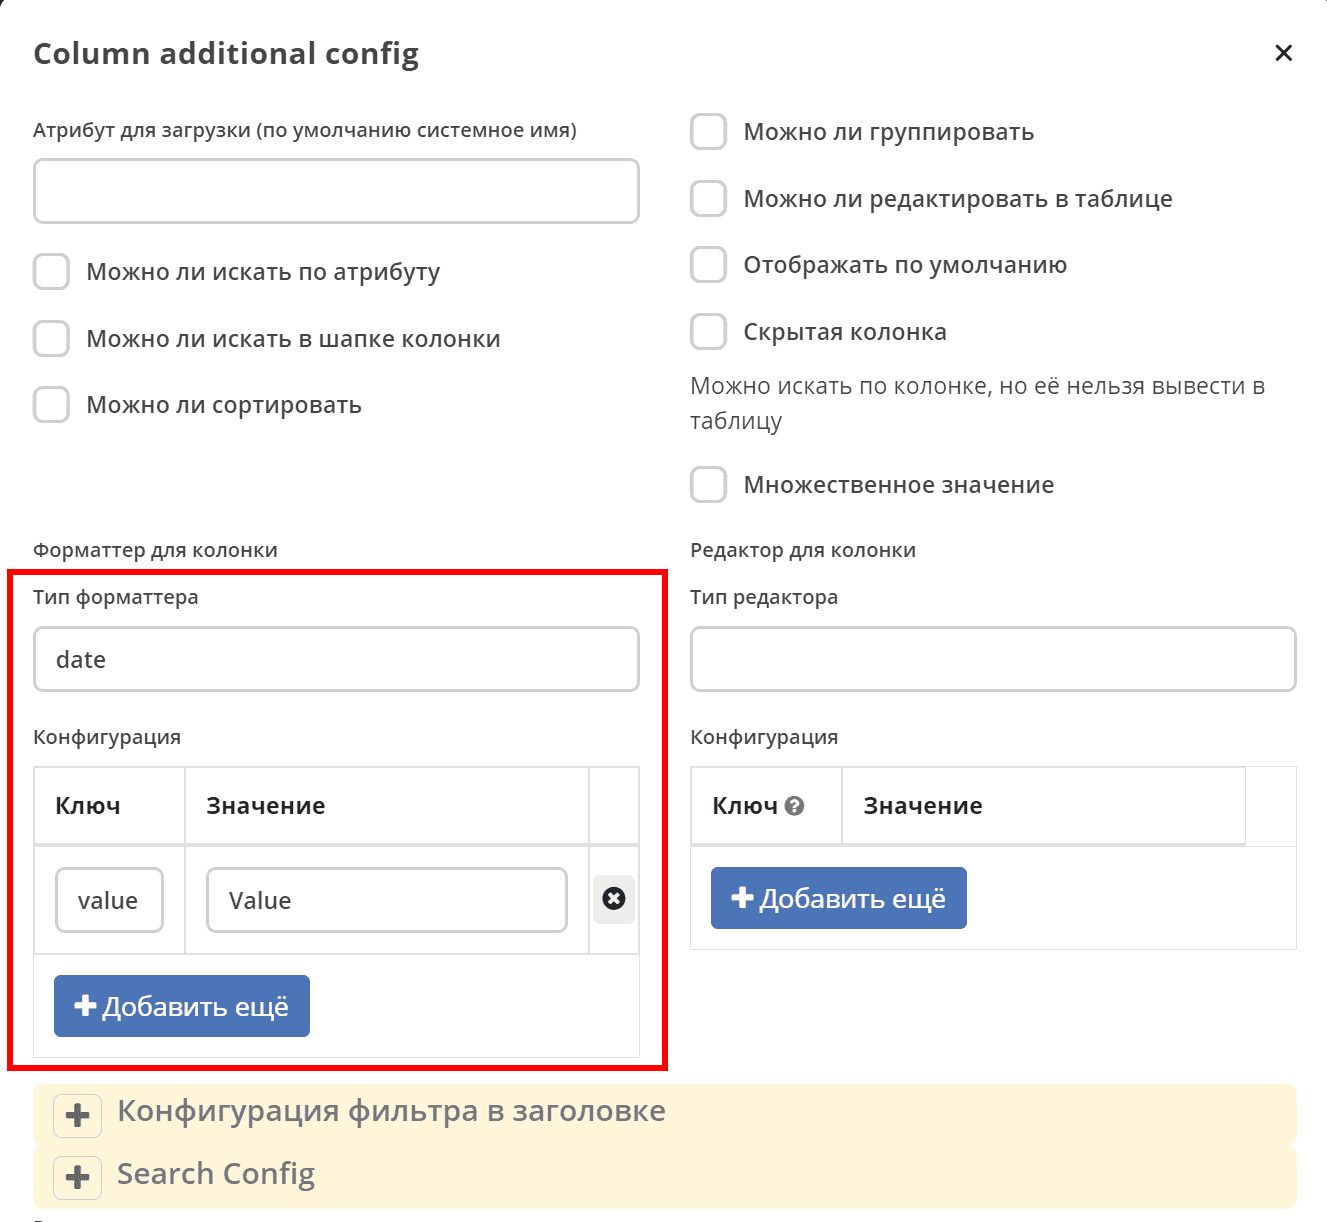
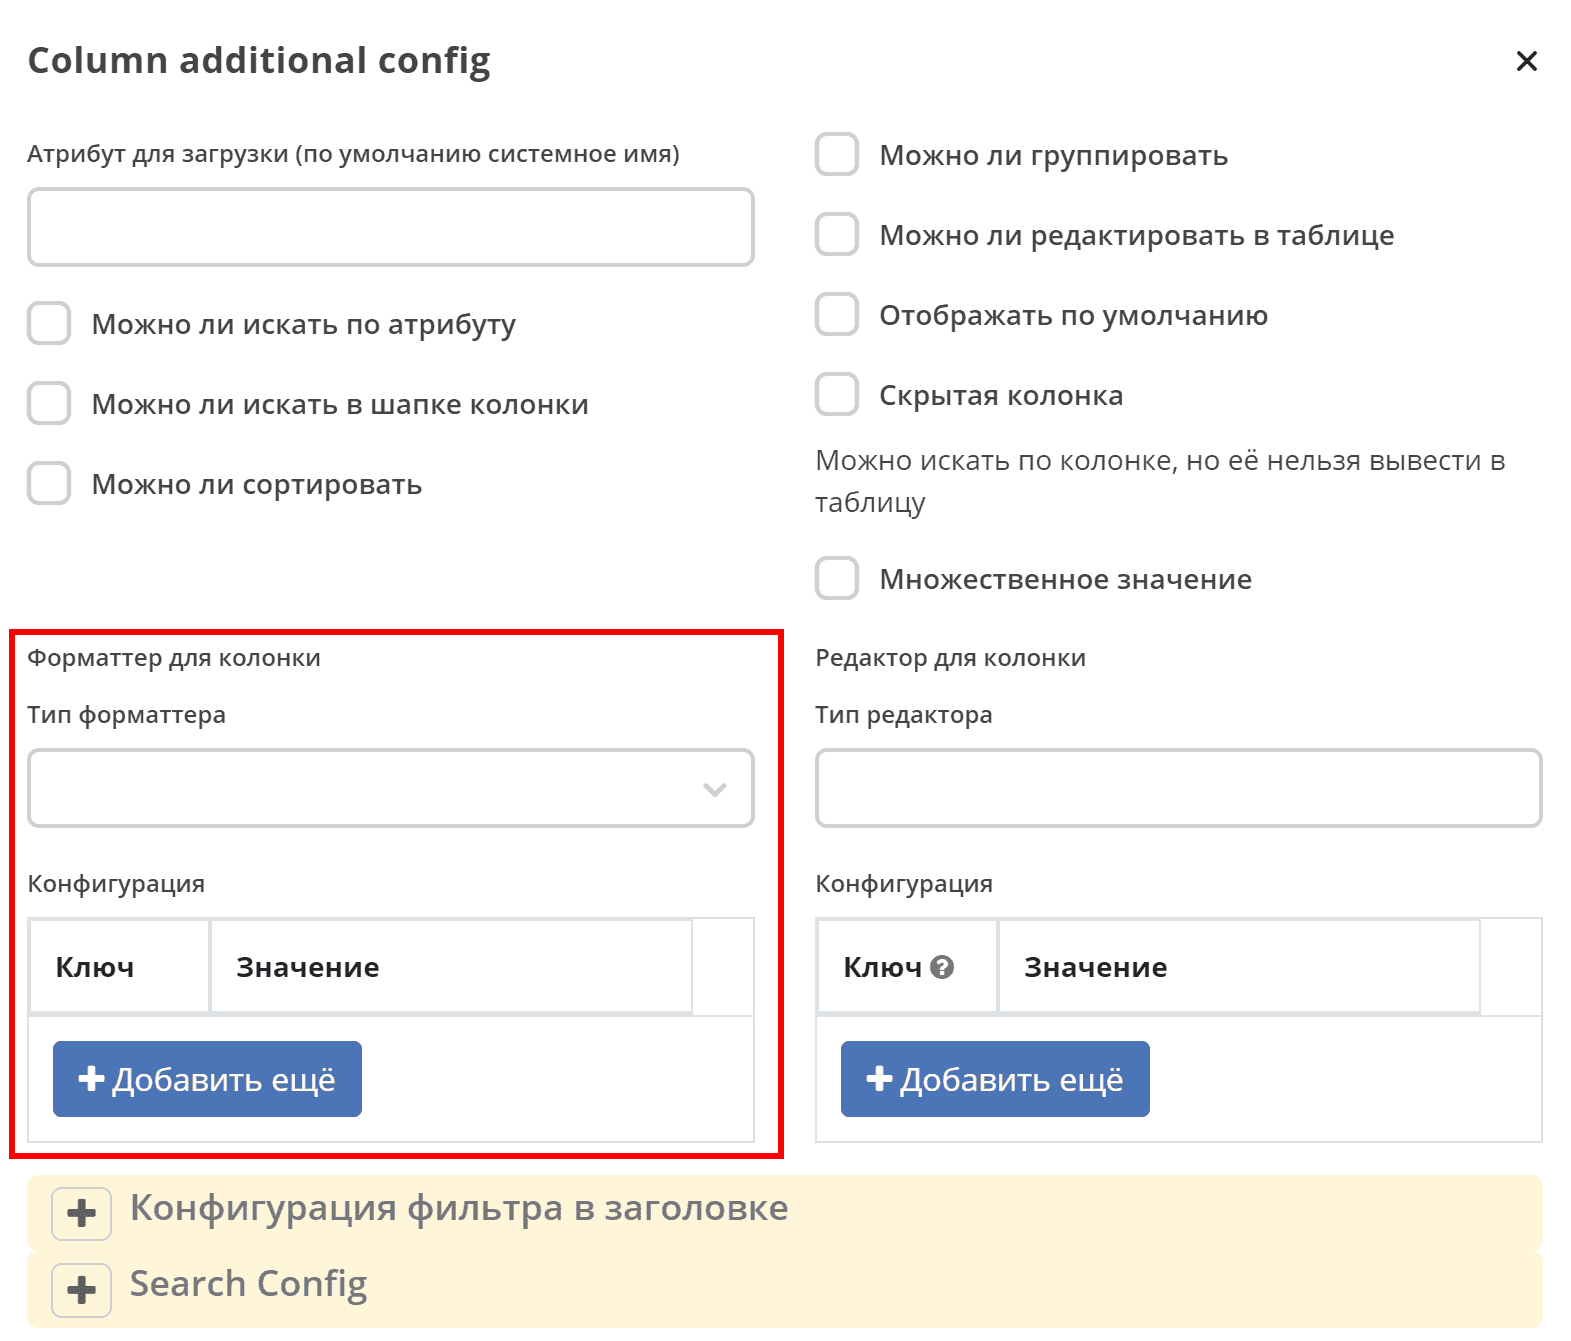
Formatters_list, license_diff, intro

diff --git a/docs/index.rst b/docs/index.rst
@@ -19,14 +19,13 @@
     * ECM-решения, в том числе электронные архивы;
     * CRM-системы.
 
-Версия **Citeck ECOS Community** – решение с открытым исходным кодом (open source), которое содержит базовый функционал для управления корпоративным контентом (ECM) и бизнес-процессами (BPM). 
-Citeck ECOS Community распространяется по лицензии LGPL. 
+Версия **Citeck ECOS Community** – решение с открытым исходным кодом (open source), распространяемое по лицензии LGPL, которое содержит базовый функционал для управления корпоративным контентом (ECM) и бизнес-процессами (BPM). 
 
 В :ref:`статье<docker_compose>` представлена информация по установке Citeck ECOS Community.
 
 В разделе :ref:`"Знакомство с ECOS"<intro>` описан интерфейс и работы с готовыми модулями системы.
 
-В разделе :ref:`"Пример настройки процесса"<sample>` размещены примеры, описывающие создание процесса в системе Citeck ECOS:
+В разделе :ref:`"Пример настройки процесса"<sample>` размещены примеры, описывающие создание процесса:
 
     * пример начального уровня для ознакомления с возможностями ECOS - автоматизация :ref:`процесса закупки оборудования<sample_request>`; 
 

diff --git a/docs/settings_kb/interface/journals/formatters.rst b/docs/settings_kb/interface/journals/formatters.rst
@@ -11,21 +11,39 @@
 
 Перейти в раздел администрирования > :guilabel:`Журналы` > найти необходимый журнал > действие :guilabel:`Редактировать`. Перейти в :guilabel:`Дополнительно`
 
-.. list-table:: 
-      :widths: 40
+.. list-table::
+      :widths: 20 20
       :align: center
 
       * - |
 
-             .. image:: _static/formatter/formatter_1.png
-                 :width: 500   
-                 :align: center
+            .. image:: _static/formatter/formatter_1.png
+                  :width: 500
+                  :align: center
 
-          | 
+        - |
 
-             .. image:: _static/formatter/formatter_2.png
-                  :width: 500 
-                  :align: center  
+            .. image:: _static/formatter/formatter_2.png
+                  :width: 500
+                  :align: center
+
+Выберите форматтер из списка заполните ключ-значение:
+
+.. list-table::
+      :widths: 20 20
+      :align: center
+
+      * - |
+
+            .. image:: _static/formatter/formatter_3.png
+                  :width: 300
+                  :align: center
+
+        - |
+
+            .. image:: _static/formatter/formatter_4.png
+                  :width: 300
+                  :align: center
 
 
 .. important::

diff --git a/docs/general/Генерация документов.rst b/docs/general/Генерация документов.rst
@@ -3,6 +3,10 @@
 Микросервис Трансформации. Генерация документов по шаблонам 
 ===========================================================
 
+.. note::
+
+    Доступно только в Enterprise версии.
+
 Опциональный Ecos-микросервис ecos-transformations для генерации документов по шаблонам, которые можно подгрузить с проектом или добавить через инструменты администратора.
 
 

diff --git a/docs/general/Microservices/list.rst b/docs/general/Microservices/list.rst
@@ -1,5 +1,5 @@
-Список микросервисов, доступных в Community/Enterprise
-======================================================
+Список микросервисов, модулей, доступных в Community/Enterprise
+================================================================
 
 Микросервисы
 -------------

diff --git a/docs/admin/audit.rst b/docs/admin/audit.rst
@@ -1,6 +1,10 @@
 Аудит
 ======
 
+.. note::
+
+    Доступно только в Enterprise версии.
+
 .. contents::
 
 **Аудит (журнал событий)** предназначен для ведения лог-файлов, в которые записываются события системы, а именно:

diff --git a/docs/settings_kb/interface/journals/editors.rst b/docs/settings_kb/interface/journals/editors.rst
@@ -24,7 +24,6 @@
                   :width: 500 
                   :align: center  
 
-
 Типы
 ---------
 
